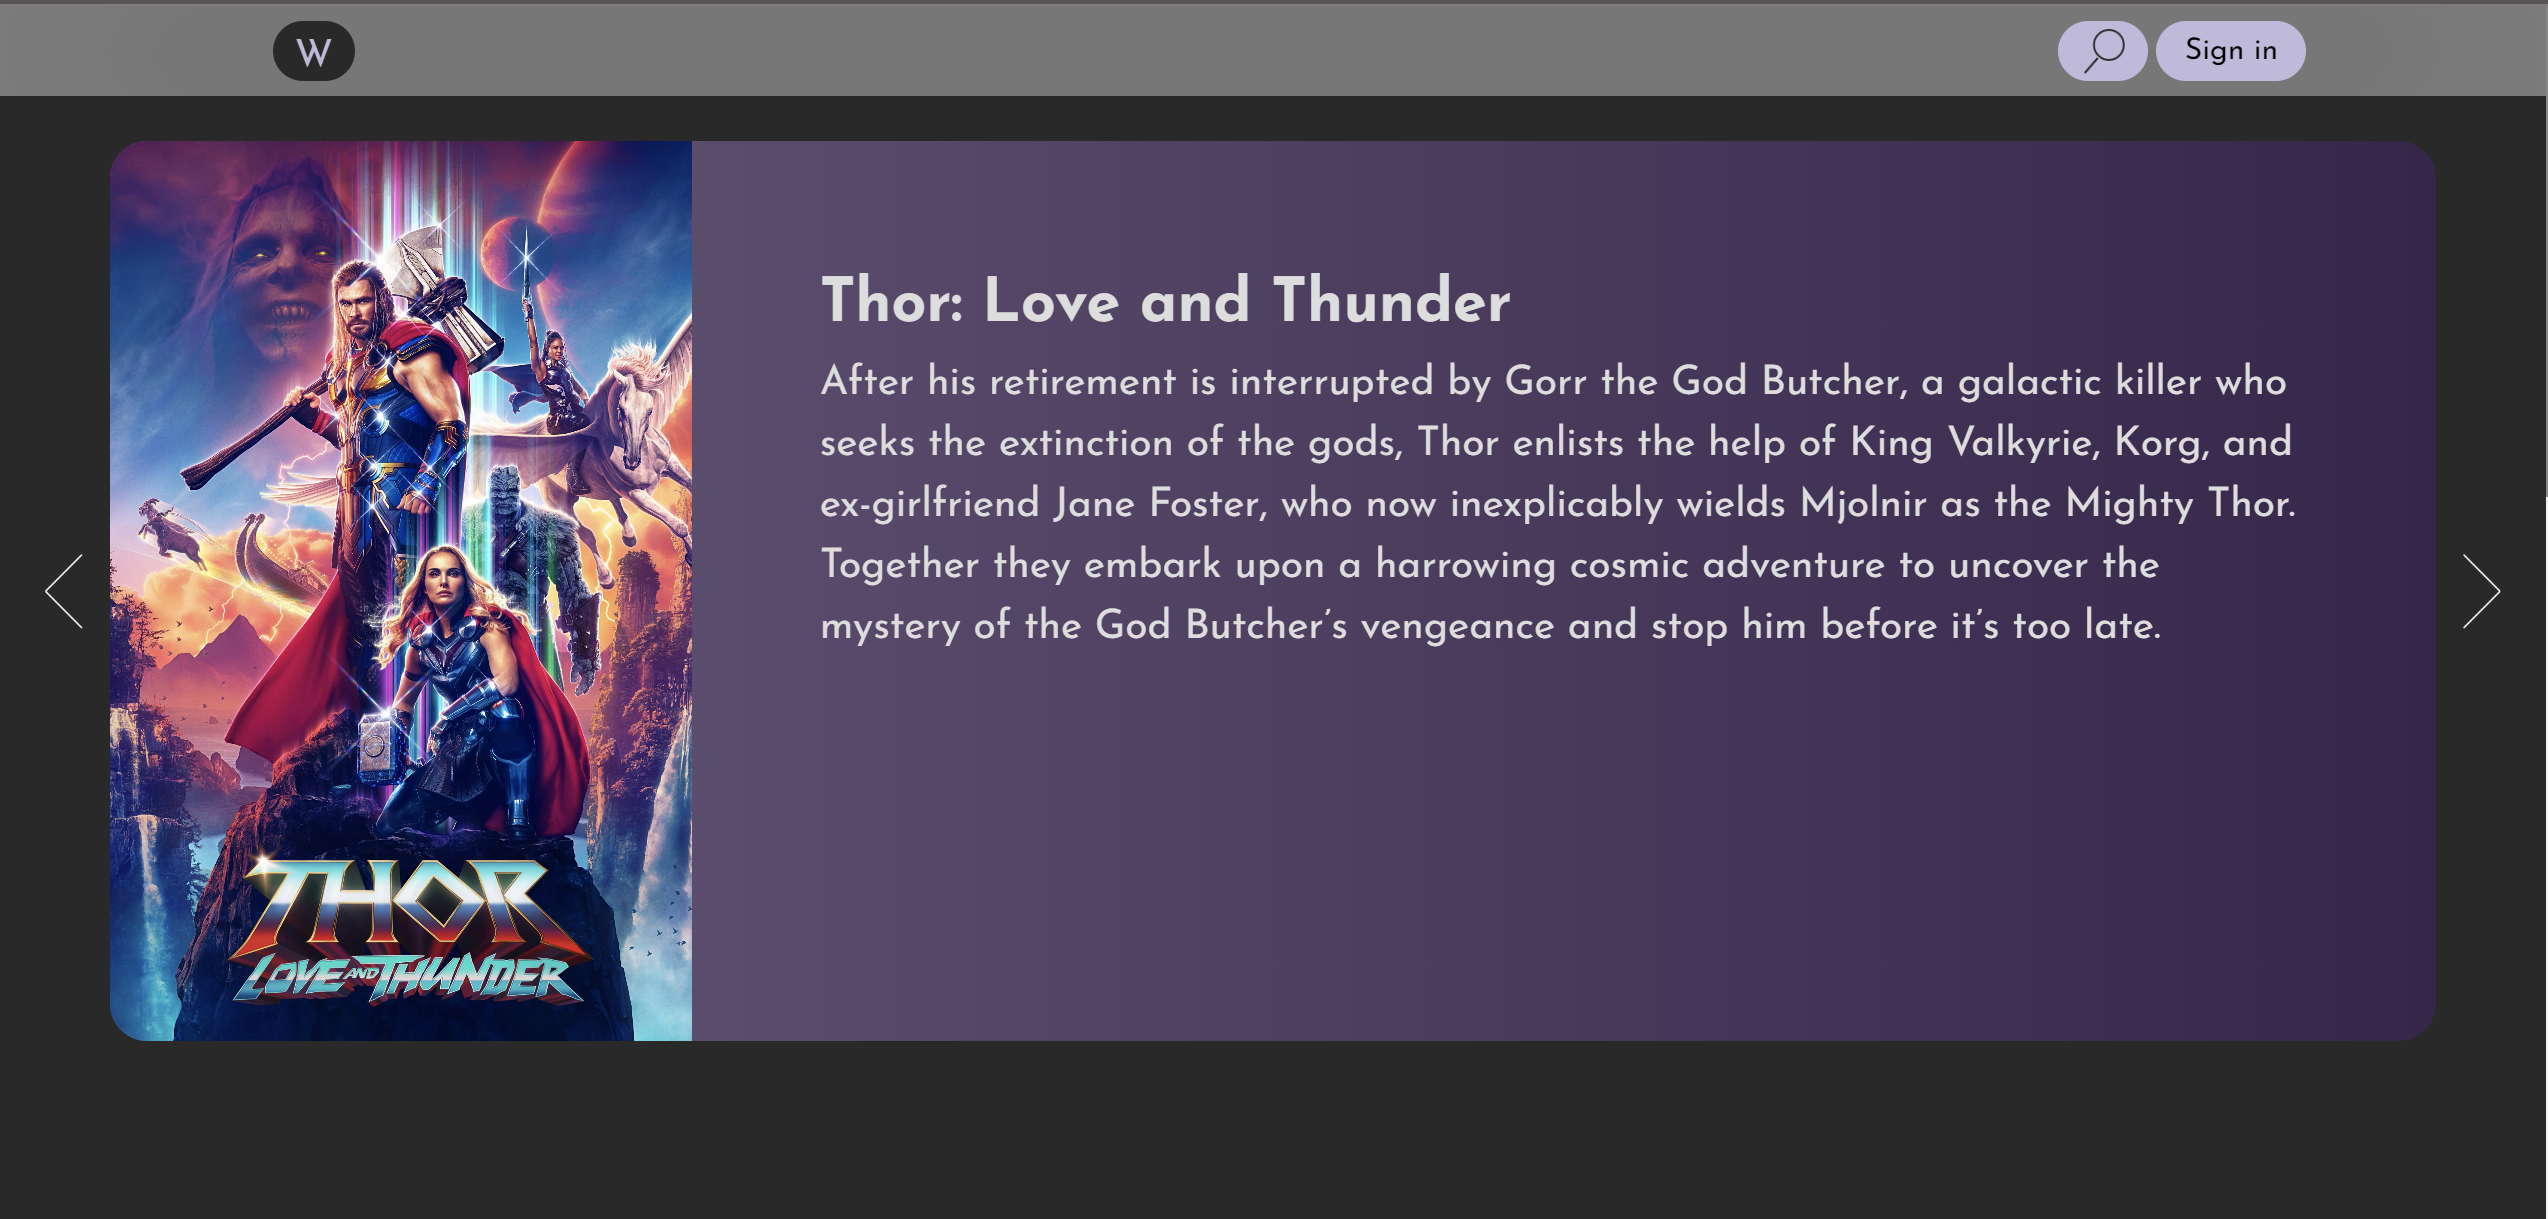
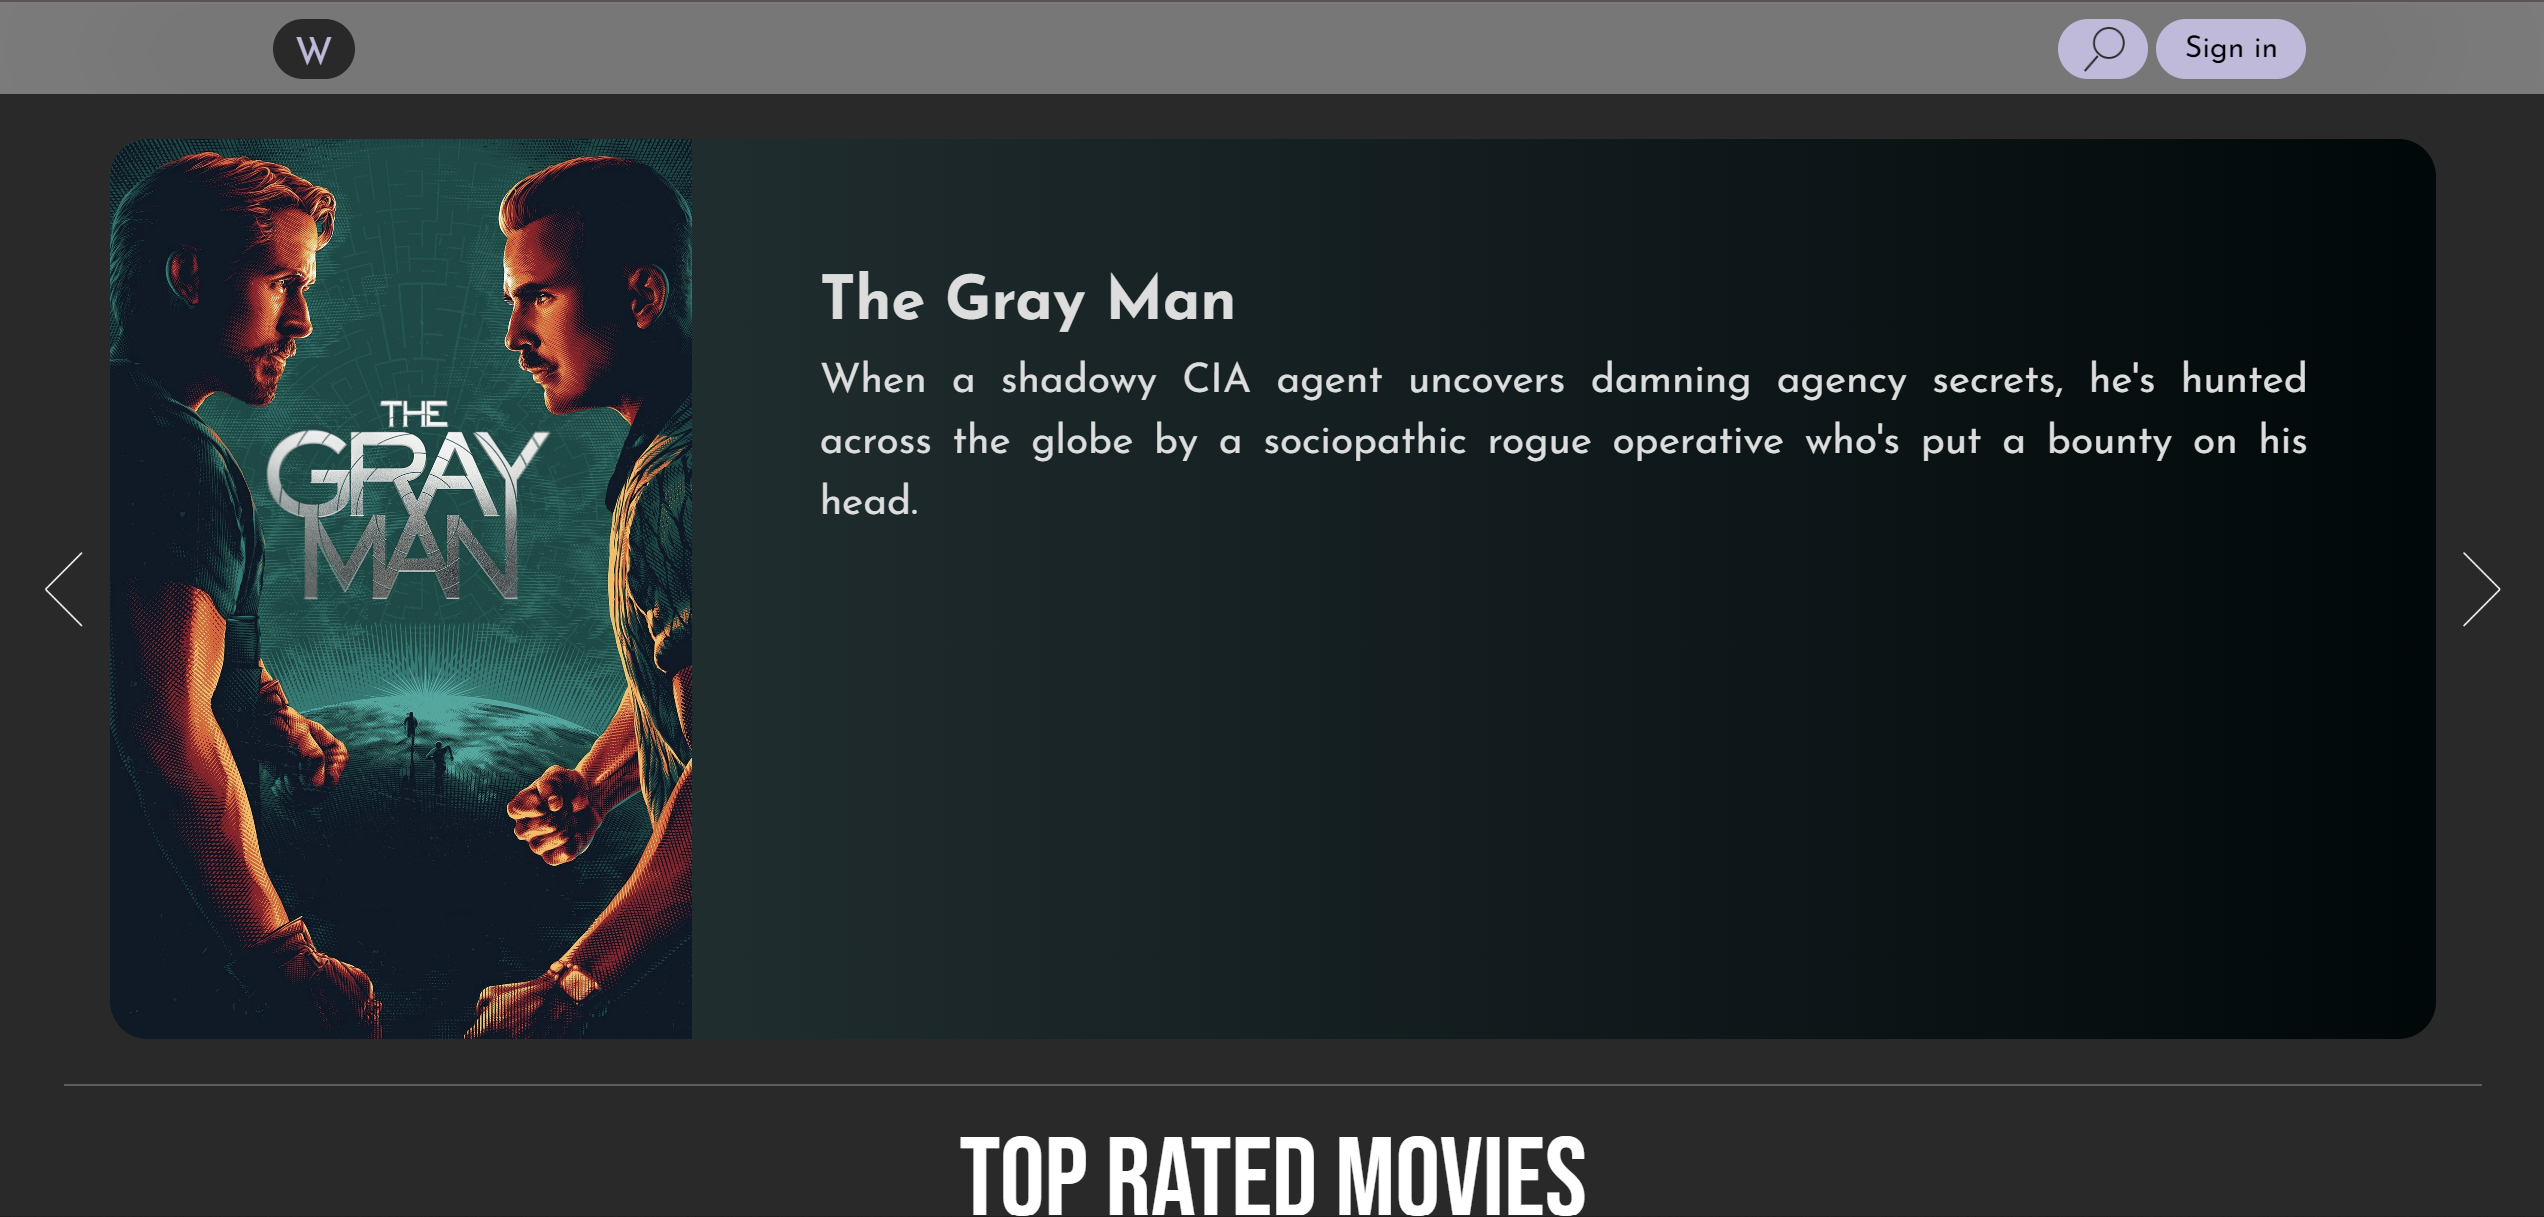
Completing the main slider, adding the most rated movies section, and updating screenshot

diff --git a/src/components/popularMovies.jsx b/src/components/popularMovies.jsx
@@ -14,7 +14,7 @@ const PopularMovies = () => {
     if(popMovies!=null){
         return (
             <div id='popular-movies'>
-              <h1 >most top rated movies</h1>
+              <h1 >top rated movies</h1>
               <div className='container-fluid  pop-movies-container '>
                 <div className='row flex-row flex-nowrap '>
                     {popMovies.map((movie,index)=>{
